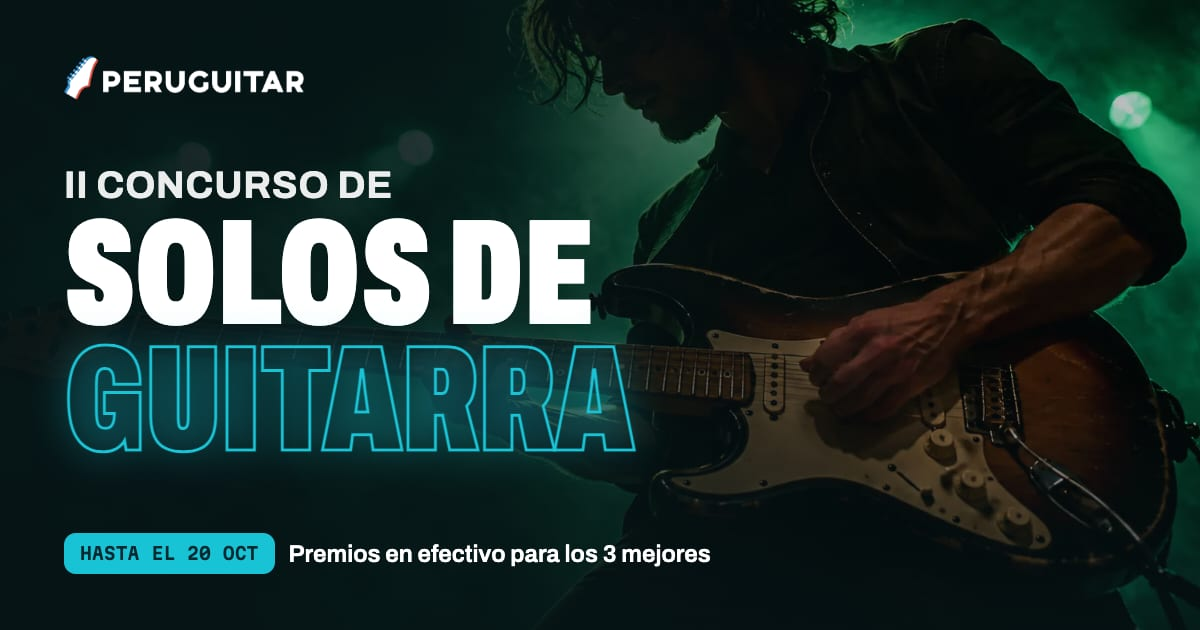
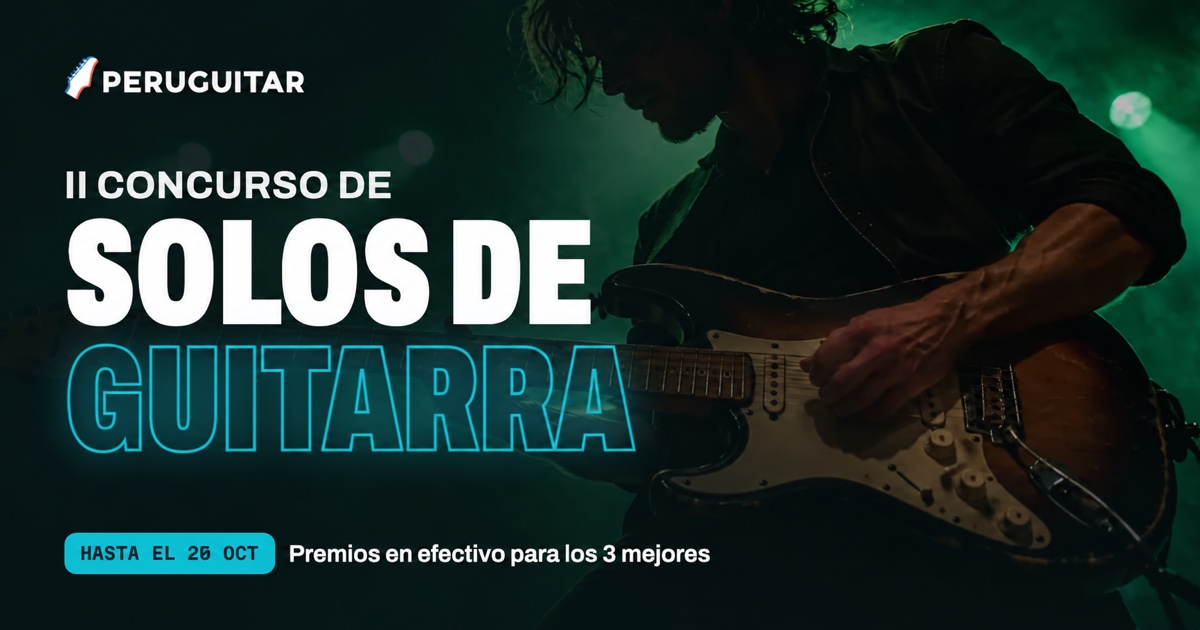
Update OG image and metadata for October 25 deadline

diff --git a/index.html b/index.html
@@ -4,16 +4,16 @@
     <meta charset="UTF-8" />
     <meta name="viewport" content="width=device-width, initial-scale=1.0, viewport-fit=cover" />
     <title>II Concurso de Solos de Guitarra · Peru Guitar</title>
-    <meta name="description" content="Graba tu solo sobre la pista oficial y publícalo en Instagram etiquetando a @peruguitar. Los 3 mejores guitarristas ganan premios en efectivo. Participa hasta el 20 de octubre." />
+    <meta name="description" content="Graba tu solo sobre la pista oficial y publícalo en Instagram etiquetando a @peruguitar. Los 3 mejores guitarristas ganan premios en efectivo. Participa hasta el 25 de octubre." />
     <meta name="theme-color" content="#061416" />
     <meta property="og:title" content="II Concurso de Solos de Guitarra · Peru Guitar" />
-    <meta property="og:description" content="Premios en efectivo para los 3 mejores. Participa hasta el 20 de octubre." />
+    <meta property="og:description" content="Premios en efectivo para los 3 mejores. Participa hasta el 25 de octubre." />
     <meta property="og:type" content="website" />
     <meta property="og:url" content="https://erp-project-dev.github.io/pg-tournament/" />
-    <meta property="og:image" content="https://erp-project-dev.github.io/pg-tournament/og.jpg" />
+    <meta property="og:image" content="https://erp-project-dev.github.io/pg-tournament/og.jpg?v=20261025" />
     <meta property="og:image:width" content="1200" />
     <meta property="og:image:height" content="630" />
-    <meta property="og:image:alt" content="II Concurso de Solos de Guitarra de Peru Guitar, participa hasta el 20 de octubre" />
+    <meta property="og:image:alt" content="II Concurso de Solos de Guitarra de Peru Guitar, participa hasta el 25 de octubre" />
     <meta property="og:locale" content="es_PE" />
     <meta name="twitter:card" content="summary_large_image" />
     <link rel="icon" type="image/png" href="/pg-tournament/favicon.png" />
